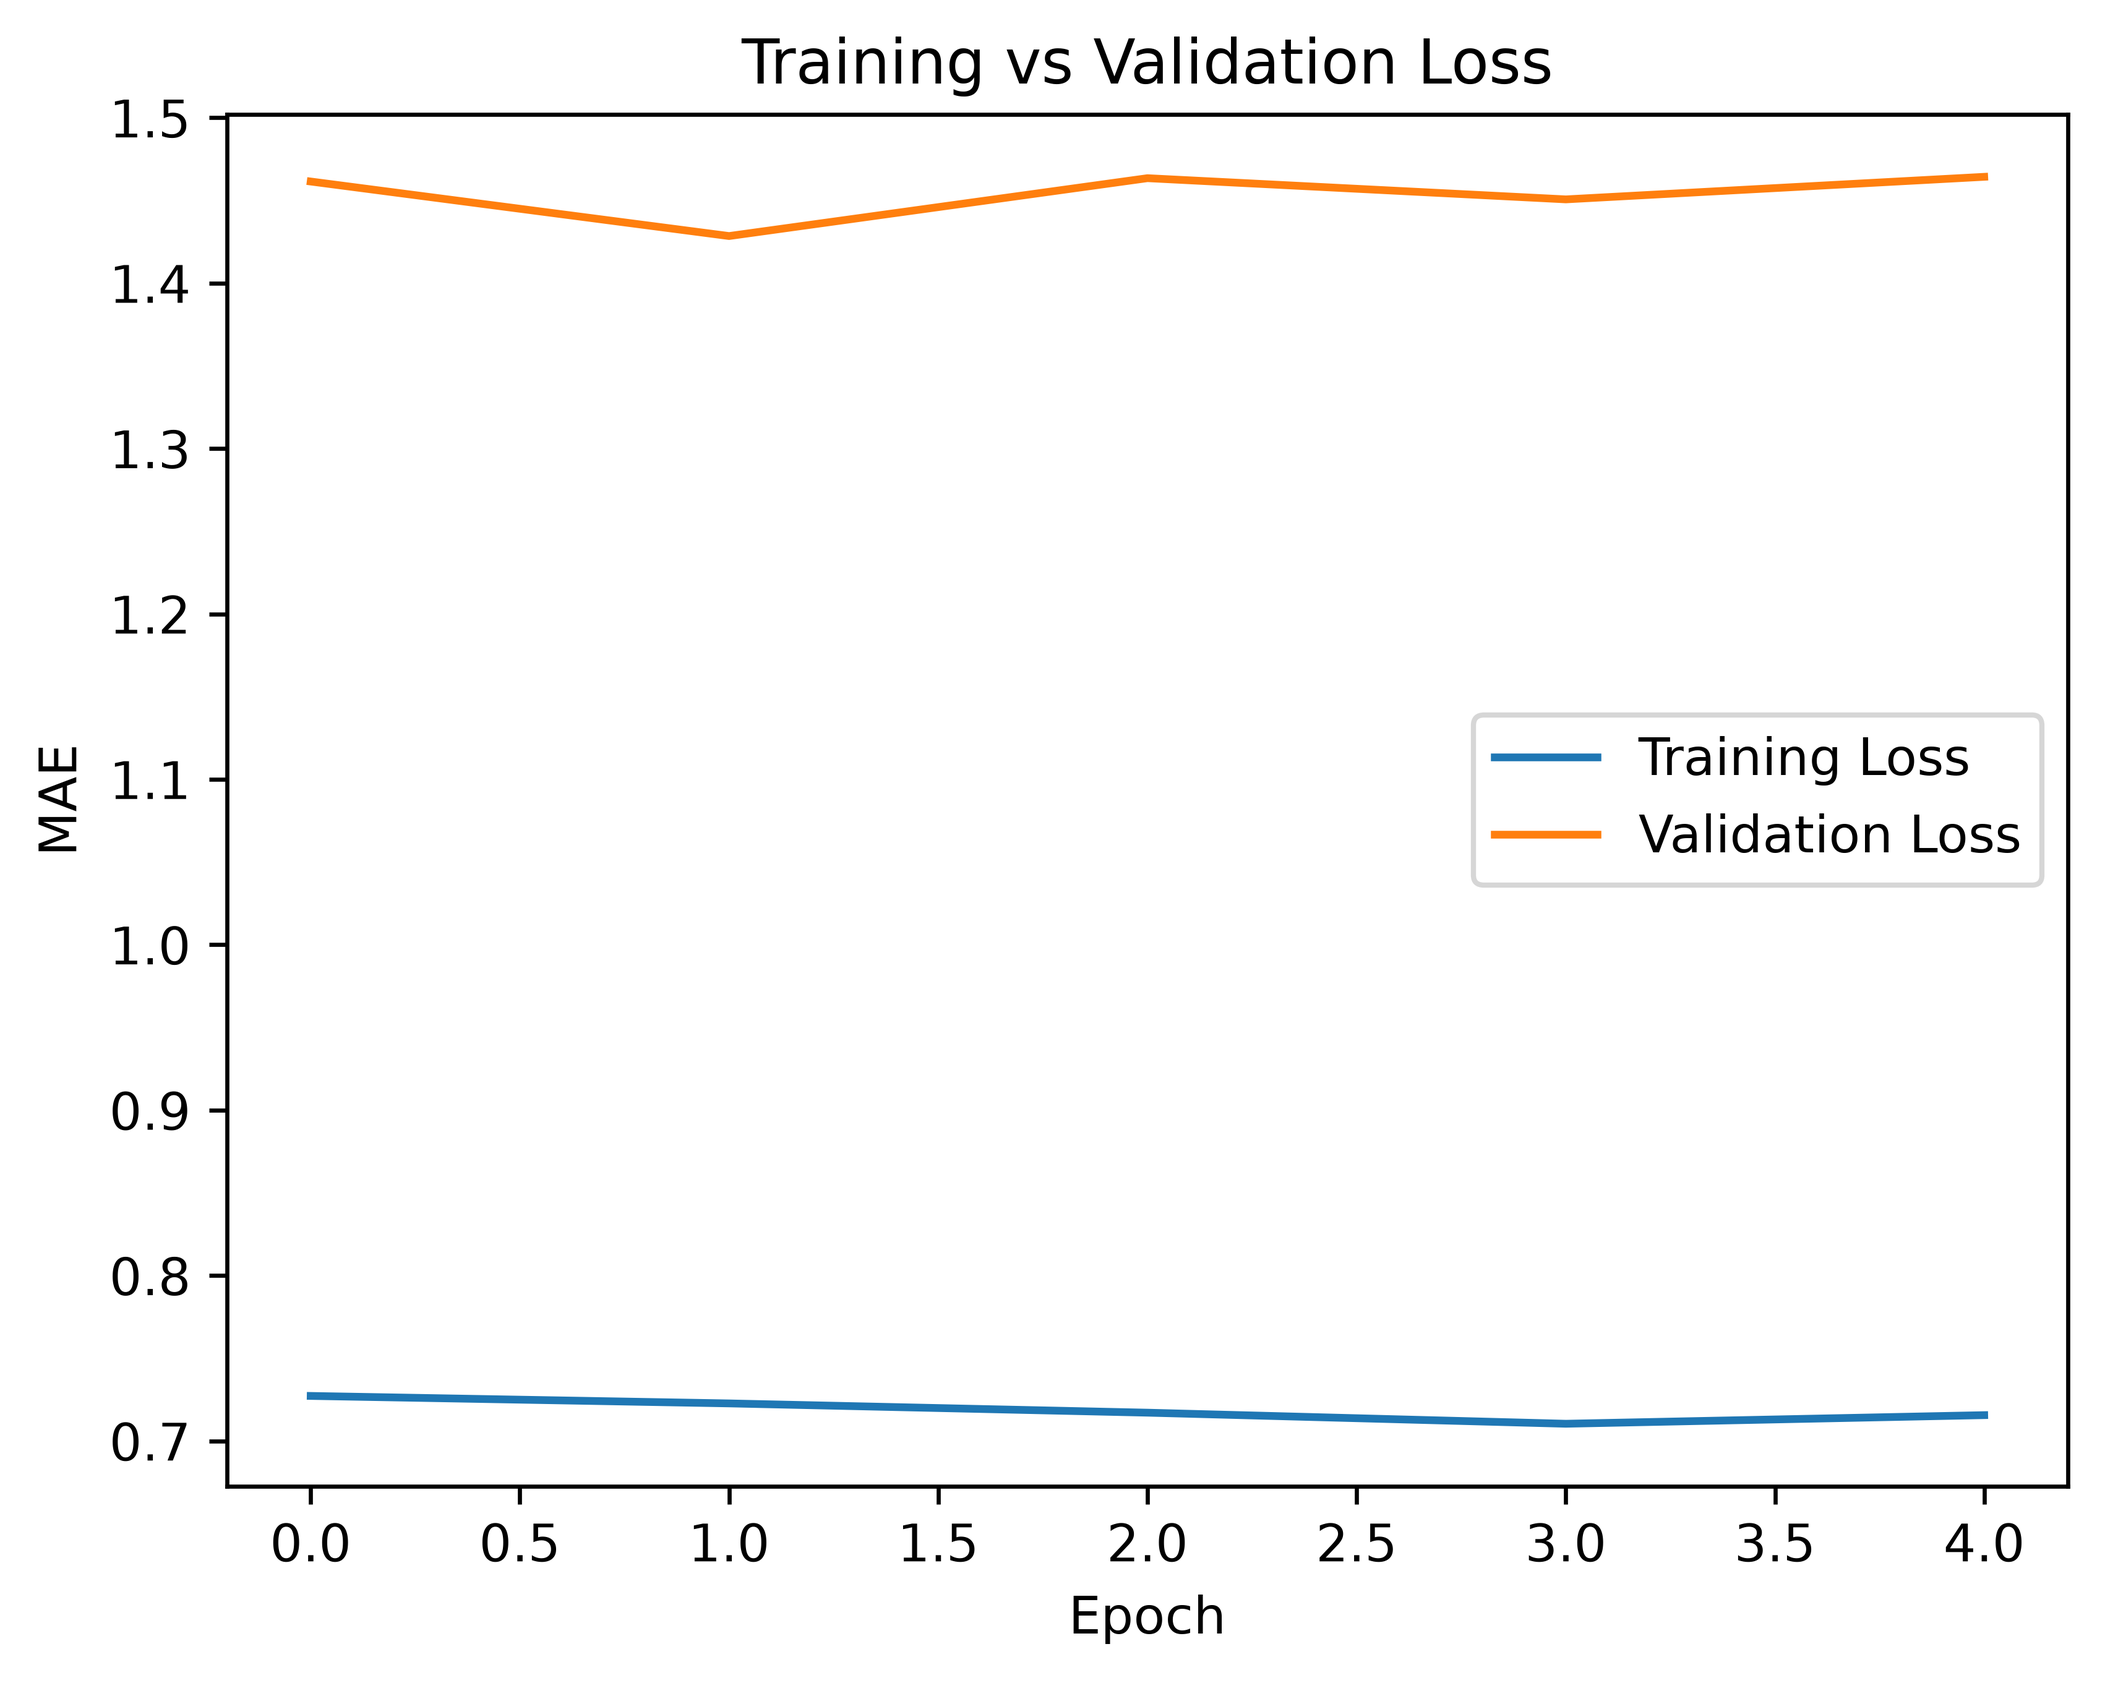
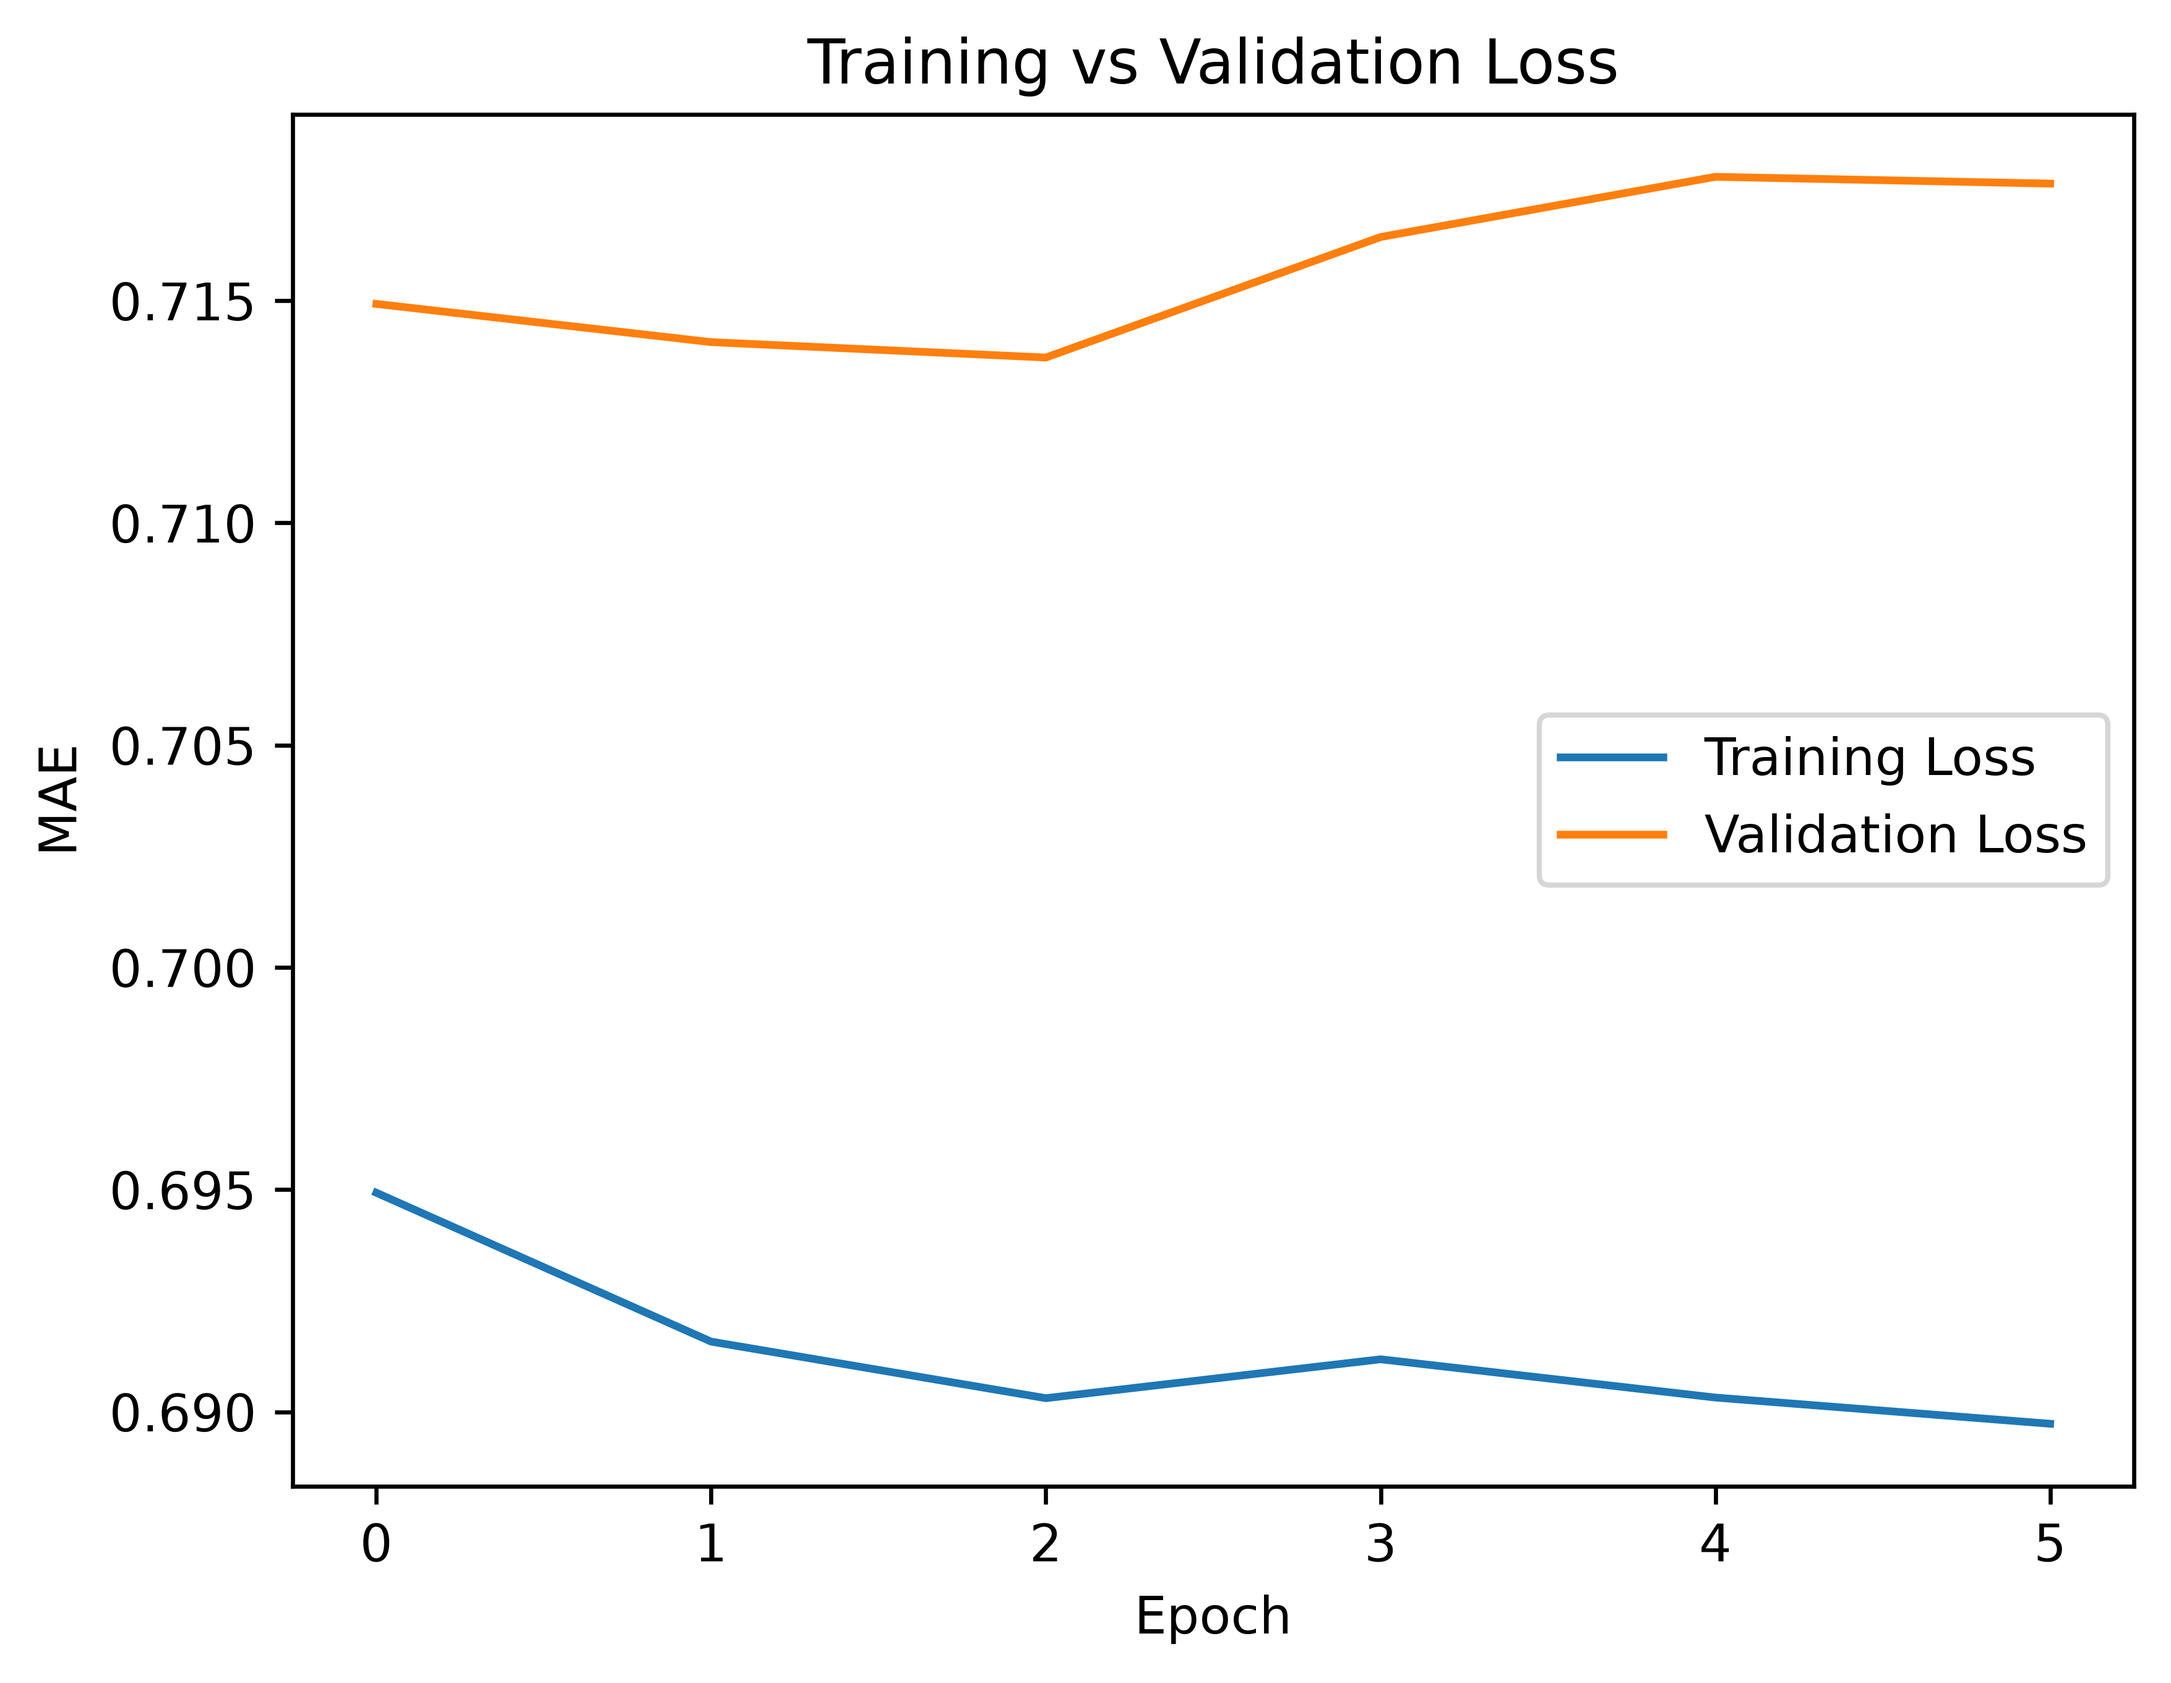
sarima complete ,visualization complete

diff --git a/main.py b/main.py
@@ -14,6 +14,9 @@ import seaborn as sns
 from datetime import datetime
 from xgboost import XGBRegressor
 from statsmodels.tsa.statespace.sarimax import SARIMAX
+from statsmodels.tsa.stattools import adfuller
+from statsmodels.stats.diagnostic import acorr_ljungbox
+import matplotlib.dates as mdates
 
 import yfinance as yf
 
@@ -80,12 +83,13 @@ for lag in range(1,11):
 
 data =data.dropna()
 
-
 # ---------------------LSTM--------------------------
 features = data[['Open-Close-ratio-lag-1','High-Low-ratio','Volume-lag-1','volatility_lag_1','price_change_lag_1']]
 target = data[['log_return']]
 train_data = int(np.ceil(len(data)*0.70))
 val_data = int(np.ceil(len(data)*0.80))
+
+test_dates = data.index[val_data:]
 
 train_features = features.iloc[:train_data]
 val_features = features.iloc[train_data:val_data]
@@ -181,48 +185,76 @@ train_sarima = data['log_return'].iloc[:train_data]
 val_sarima = data['log_return'].iloc[train_data:val_data]
 test_sarima = data['log_return'].iloc[val_data:]
 
+final_train_data = np.concatenate([train_sarima,val_sarima])
+
 sarima_model = SARIMAX(
-    train_sarima,
-    order= (0,0,1),
-    seasonal_order= (1,0,0,5),
+    final_train_data,
+    order= (1,0,0),
+    seasonal_order= (1,0,1,5),
     enforce_invertibility=False,
     enforce_stationarity=False
 )
 
 sarima_result = sarima_model.fit(disp=False)
-print(sarima_result.summary())
-
-sarima_val_prediction = []
+# print(sarima_result.summary())
 sarima_current = sarima_result
-for i in val_sarima:
-    forecast = sarima_current.forecast(steps = 1)
-    sarima_val_prediction.append(forecast.iloc[0])
-    sarima_current = sarima_current.append([i],refit = False)
-sarima_val_prediction = np.array(sarima_val_prediction)
 
-sarima_val_actual_lag_1 = data['Close'].iloc[train_data-1:val_data-1]
-sarima_val_prediction_price = sarima_val_actual_lag_1*np.exp(sarima_val_prediction)
 
-val_data_close = data['Close'].iloc[train_data:val_data]
-mae = mean_absolute_error(sarima_val_prediction_price,val_data_close)
-print(f'mae for sarima validation is : {mae: .6f}')
+# residual check 
+# lb_1 = acorr_ljungbox(
+#     residual_1,
+#     lags = [5,10,15,20],
+#     return_df= True
+# )
+# lb_2 = acorr_ljungbox(
+#     resid_2,
+#     lags= [5,10,15,20],
+#     return_df= True
+# )
+# print(f'lb_1 is : {lb_1}')
+# print(f'lb_2 is : {lb_2}')
 
-rmse = root_mean_squared_error(sarima_val_prediction_price,val_data_close)
-print(f'rsme for sarima validation is : {rmse: .6f}')
+
+
+
+#no longer needed val 
+# sarima_val_prediction = []
+# sarima_current = sarima_result
+# for i in val_sarima:
+#     forecast = sarima_current.forecast(steps = 1)
+#     sarima_val_prediction.append(forecast.iloc[0])
+#     sarima_current = sarima_current.append([i],refit = False)
+# sarima_val_prediction = np.array(sarima_val_prediction)
+
+# sarima_val_actual_lag_1 = data['Close'].iloc[train_data-1:val_data-1]
+# sarima_val_prediction_price = sarima_val_actual_lag_1*np.exp(sarima_val_prediction)
+
+# val_data_close = data['Close'].iloc[train_data:val_data]
+# mae = mean_absolute_error(sarima_val_prediction_price,val_data_close)
+# print(f'mae for sarima validation is : {mae: .6f}')
+
+# rmse = root_mean_squared_error(sarima_val_prediction_price,val_data_close)
+# print(f'rsme for sarima validation is : {rmse: .6f}')
 
 
 sarima_test_prediction = []
 for i in test_sarima:
     forecast = sarima_current.forecast(steps= 1)
-    sarima_test_prediction.append(forecast.iloc[0])
+    sarima_test_prediction.append(forecast[0])
     sarima_current = sarima_current.append([i],refit= False)
 sarima_test_prediction = np.array(sarima_test_prediction)
 
 sarima_predicted_price = previous_1_price*np.exp(sarima_test_prediction)
 
+# stationar test 
+# adf_result = adfuller(data['log_return'])
 
-
-
+# print("\n========== ADF Stationarity Test ==========")
+# print(f'statistics are      : {adf_result[0]: .6f}')
+# print(f'p value is          : {adf_result[1]: .6f}')
+# print(f'critical values are :')
+# for key,value in adf_result[4].items():
+#     print(f'{key} : {value: .2f}')
 
 
 
@@ -363,3 +395,23 @@ plt.show()
 # plt.title("comparison")
 # plt.legend()
 # plt.show()
+
+
+plt.figure(figsize=(12,8))
+plt.plot(test_dates,actual_price,label = "Actual Price")
+plt.plot(test_dates,predicted_price,label = "LSTM predicted Price")
+plt.plot(test_dates,data_for_bl,label = "Naive Baseline Predicted Price")
+plt.plot(test_dates,xgb_predicted_price,label = "XGBoost Predicted Price")
+plt.plot(test_dates,sarima_predicted_price,label = "Sarima Predicted Price")
+plt.xlabel('Dates')
+plt.ylabel("Price")
+plt.title("Actual-Predicted Price")
+
+plt.gca().xaxis.set_major_locator(mdates.MonthLocator(interval=3))
+plt.gca().xaxis.set_major_formatter(mdates.DateFormatter("%b %Y"))
+plt.xticks(rotation=45)
+                
+plt.legend()
+plt.tight_layout()
+plt.savefig(f"images/actual-predicted-price/{ticker}_Actual-Predicted Price_For_{len(test_dates)}_Days.png", dpi = 600 , bbox_inches = "tight")
+plt.show()

diff --git a/mae_rsme_charts.py b/mae_rsme_charts.py
@@ -1,0 +1,145 @@
+import numpy as np
+import matplotlib.pyplot as plt
+
+datasets = [
+    "AAPL 3y",
+    "AAPL 10y",
+    "TSLA 3y",
+    "TSLA 10y",
+    "MSFT 3y",
+    "MSFT 10y"
+]
+
+naive_mae = [
+    2.261279,
+    2.479543,
+    9.177741,
+    8.267410,
+    4.195265,
+    4.079825
+]
+
+lstm_mae = [
+    2.309172,
+    2.487076,
+    9.229435,
+    8.381798,
+    4.202180,
+    4.072076
+]
+
+xgb_mae = [
+    2.379145,
+    2.662618,
+    10.635090,
+    8.646171,
+    4.360533,
+    4.834670
+]
+
+sarima_mae = [
+    2.201945,
+    2.529249,
+    9.414005,
+    8.272998,
+    4.241584,
+    4.076552
+]
+
+
+# -----------------------------------------rmse-----------------------------------------
+naive_rmse = [
+    3.180520,
+    3.663767,
+    12.003227,
+    11.440186,
+    5.894364,
+    5.443339
+]
+
+lstm_rmse = [
+    3.203036,
+    3.673992,
+    12.090004,
+    11.689721,
+    5.897566,
+    5.466045
+]
+
+xgb_rmse = [
+    3.371673,
+    3.857736,
+    13.705428,
+    11.975411,
+    6.084945,
+    6.178767
+]
+
+sarima_rmse = [
+    3.147529,
+    3.715767,
+    12.294855,
+    11.446678,
+    5.961695,
+    5.436848
+]
+
+
+# ----------------------------------graphs-----------------------------------
+
+
+#  mae graph
+
+x = np.arange(len(datasets))
+width = 0.2
+
+plt.figure(figsize=(12, 6))
+
+bars1 = plt.bar(x - 1.5*width, naive_mae, width, label="Naive")
+bars2 = plt.bar(x - 0.5*width, lstm_mae, width, label="LSTM")
+bars3 = plt.bar(x + 0.5*width, xgb_mae, width, label="XGBoost")
+bars4 = plt.bar(x + 1.5*width, sarima_mae, width, label="SARIMA")
+
+
+plt.bar_label(bars1, fmt="%.2f", padding=3)
+plt.bar_label(bars2, fmt="%.2f", padding=3)
+plt.bar_label(bars3, fmt="%.2f", padding=3)
+plt.bar_label(bars4, fmt="%.2f", padding=3)
+
+plt.xticks(x, datasets)
+plt.xlabel("Dataset")
+plt.ylabel("MAE")
+plt.title("MAE Comparison Across Stocks and Historical Windows")
+
+plt.legend()
+plt.tight_layout()
+plt.savefig("images/mae_comparison.png", dpi=300, bbox_inches="tight")
+plt.show()
+
+
+#      rmse graph
+
+x = np.arange(len(datasets))
+width = 0.2
+
+plt.figure(figsize=(12, 6))
+
+bars5 = plt.bar(x - 1.5*width, naive_rmse, width, label="Naive")
+bars6 = plt.bar(x - 0.5*width, lstm_rmse, width, label="LSTM")
+bars7 = plt.bar(x + 0.5*width, xgb_rmse, width, label="XGBoost")
+bars8 = plt.bar(x + 1.5*width, sarima_rmse, width, label="SARIMA")
+
+plt.bar_label(bars5, fmt="%.2f", padding=3)
+plt.bar_label(bars6, fmt="%.2f", padding=3)
+plt.bar_label(bars7, fmt="%.2f", padding=3)
+plt.bar_label(bars8, fmt="%.2f", padding=3)
+
+plt.xticks(x, datasets)
+plt.xlabel("Dataset")
+plt.ylabel("RMSE")
+plt.title("RMSE Comparison Across Stocks and Historical Windows")
+
+plt.legend()
+plt.tight_layout()
+plt.savefig("images/rmse_comparison.png", dpi=300, bbox_inches="tight")
+plt.show()
